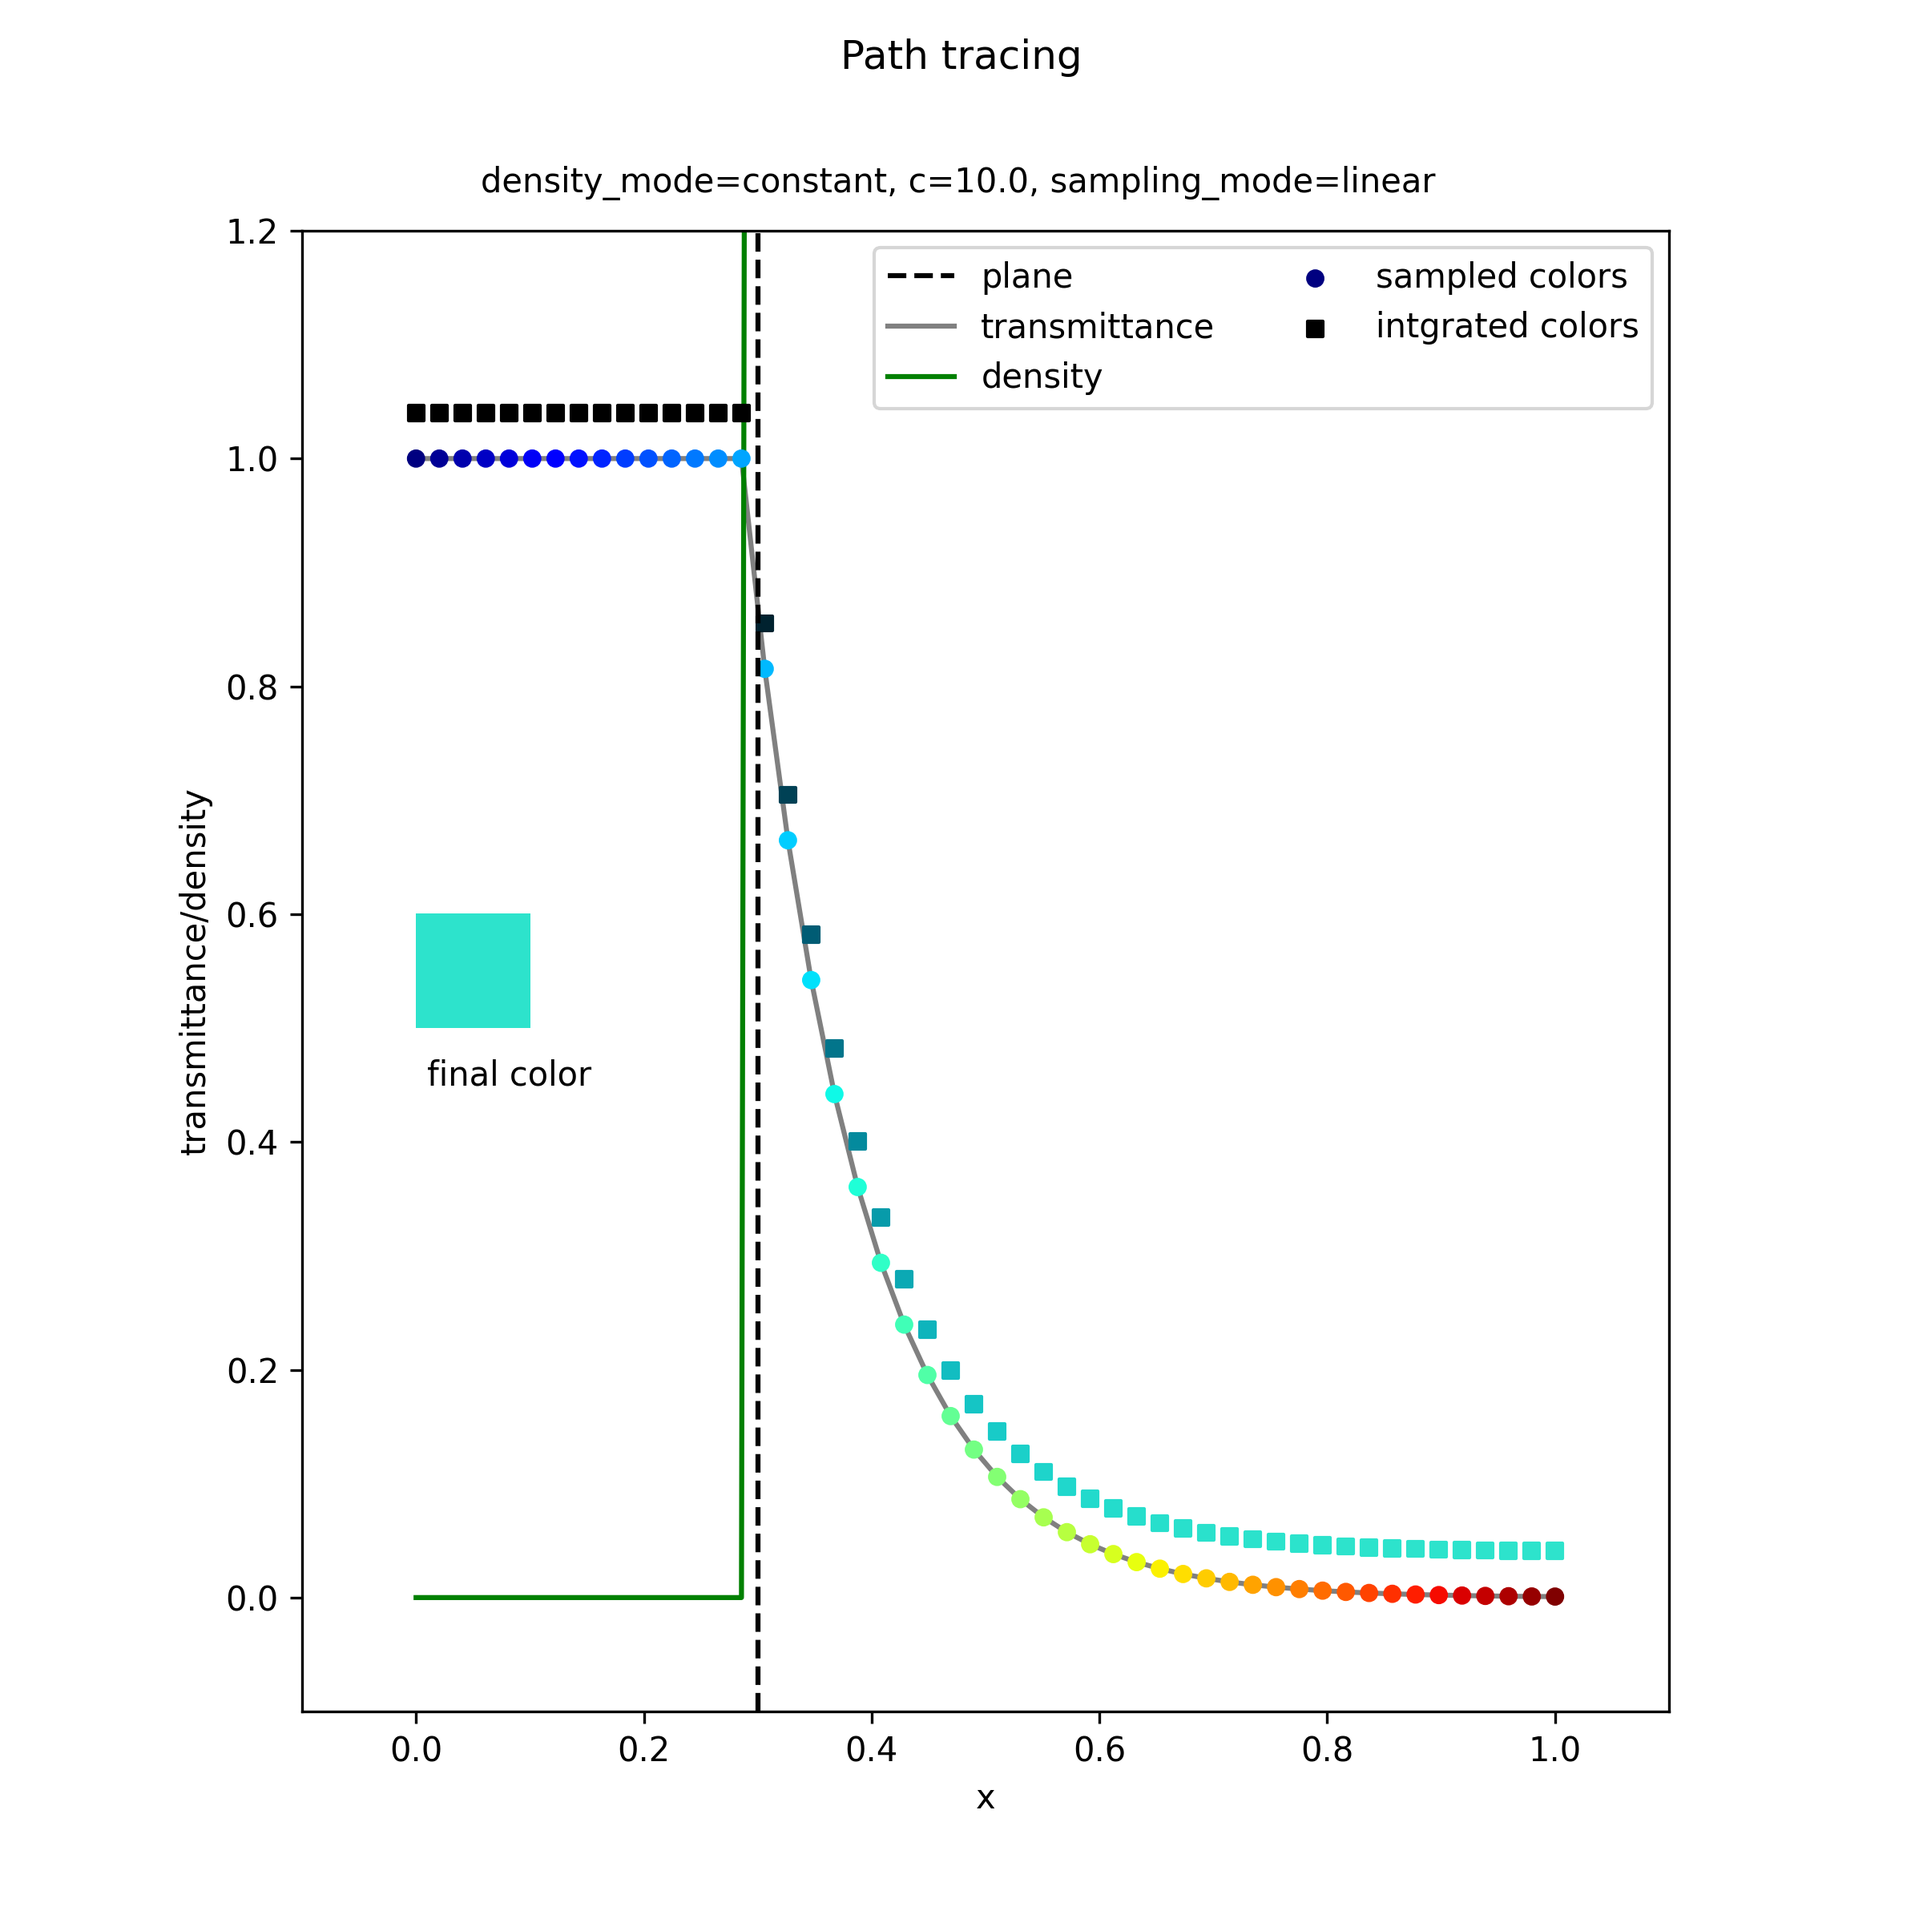
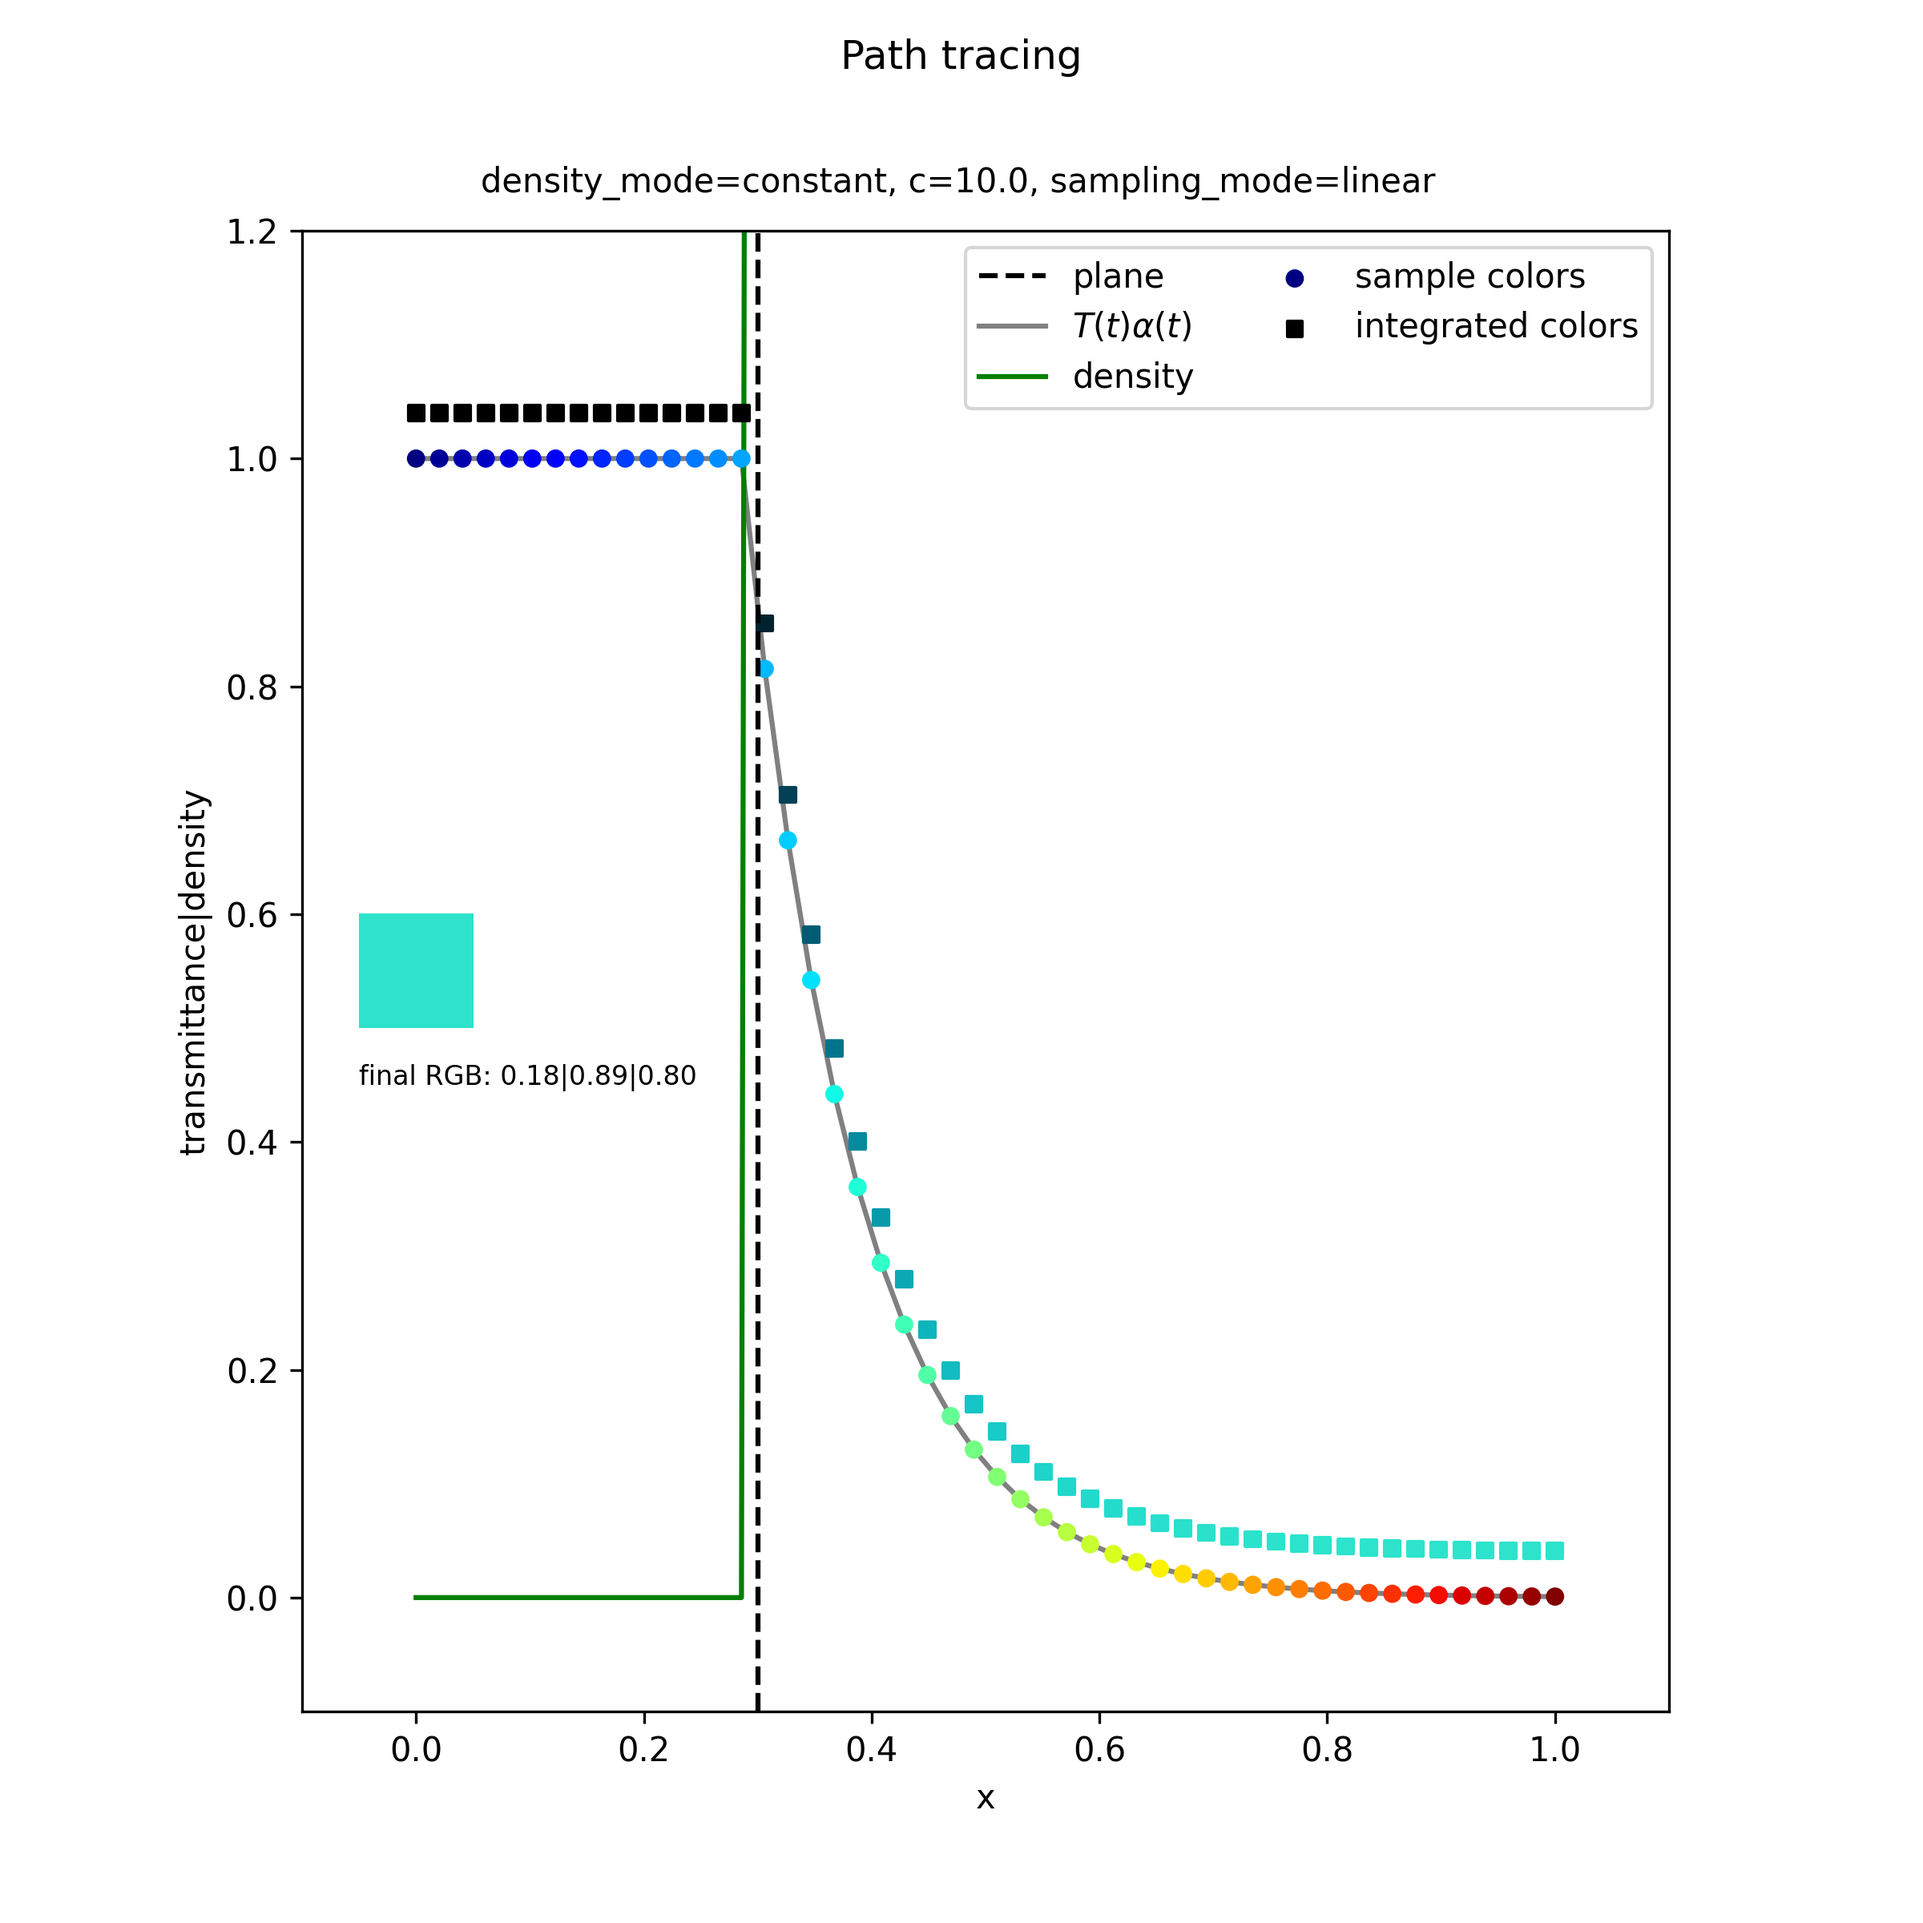
updated visu

diff --git a/scripts/visualize_path_tracing.py b/scripts/visualize_path_tracing.py
@@ -45,11 +45,13 @@ def plot_ray(
     elif sampling_mode == "stratified":
         ts = functional.sample_ray_step_stratified(tnear, tfar, 50)
     elif sampling_mode == "informed":
-        ts = functional.sample_ray_step_stratified(tnear, tfar, 20)
+        # Initial samples
+        ts = torch.linspace(tnear.item(), tfar.item(), 20).reshape(20, 1, 1)
         _, density = sample_vol(ts, density_mode=density_mode, c=c)
         ts_weights = functional.integrate_timesteps(
             density, ts, dnorm, tfinal=tfar + 1e-2
         )
+        # Informed sampling
         ts = functional.sample_ray_step_informed(
             ts, tnear, tfar, ts_weights, n_samples=50
         )
@@ -78,11 +80,18 @@ def plot_ray(
         label="density",
     )
 
+    final_color = out_color[-1].view(-1)
     ax.imshow(
-        out_color[-1].view(1, 1, 3),
-        extent=(ts[0, 0, 0] - tnear[0, 0], ts[0, 0, 0] - tnear[0, 0] + 0.1, 0.5, 0.6),
+        final_color.view(1, 1, 3),
+        extent=(-0.05, -0.05 + 0.1, 0.5, 0.6),
     )
-    plt.text(0.01, 0.45, "final color")
+    plt.text(
+        -0.05,
+        0.45,
+        "final RGB:"
+        f" {final_color[0].item():.2f}|{final_color[1].item():.2f}|{final_color[2].item():.2f}",
+        fontsize=8,
+    )
     ax.scatter(
         shifted_ts,
         out_transm[:, 0],
@@ -118,11 +127,11 @@ def main():
     _ = plot_ray(density_mode="constant", c=10.0, sampling_mode="linear")
     _ = plot_ray(density_mode="constant", c=10.0, sampling_mode="stratified")
     _ = plot_ray(density_mode="constant", c=10.0, sampling_mode="informed")
-    # _ = plot_ray(density_mode="linear", c=1.0, sampling_mode="linear")
-    # _ = plot_ray(density_mode="linear", c=10.0, sampling_mode="linear")
-    # _ = plot_ray(density_mode="linear", c=10.0, sampling_mode="stratified")
-    # _ = plot_ray(density_mode="linear", c=10.0, sampling_mode="informed")
-    # _ = plot_ray(density_mode="linear", c=float("inf"), sampling_mode="linear")
+    _ = plot_ray(density_mode="linear", c=1.0, sampling_mode="linear")
+    _ = plot_ray(density_mode="linear", c=10.0, sampling_mode="linear")
+    _ = plot_ray(density_mode="linear", c=10.0, sampling_mode="stratified")
+    _ = plot_ray(density_mode="linear", c=10.0, sampling_mode="informed")
+    _ = plot_ray(density_mode="linear", c=float("inf"), sampling_mode="linear")
     plt.show()
 
 
